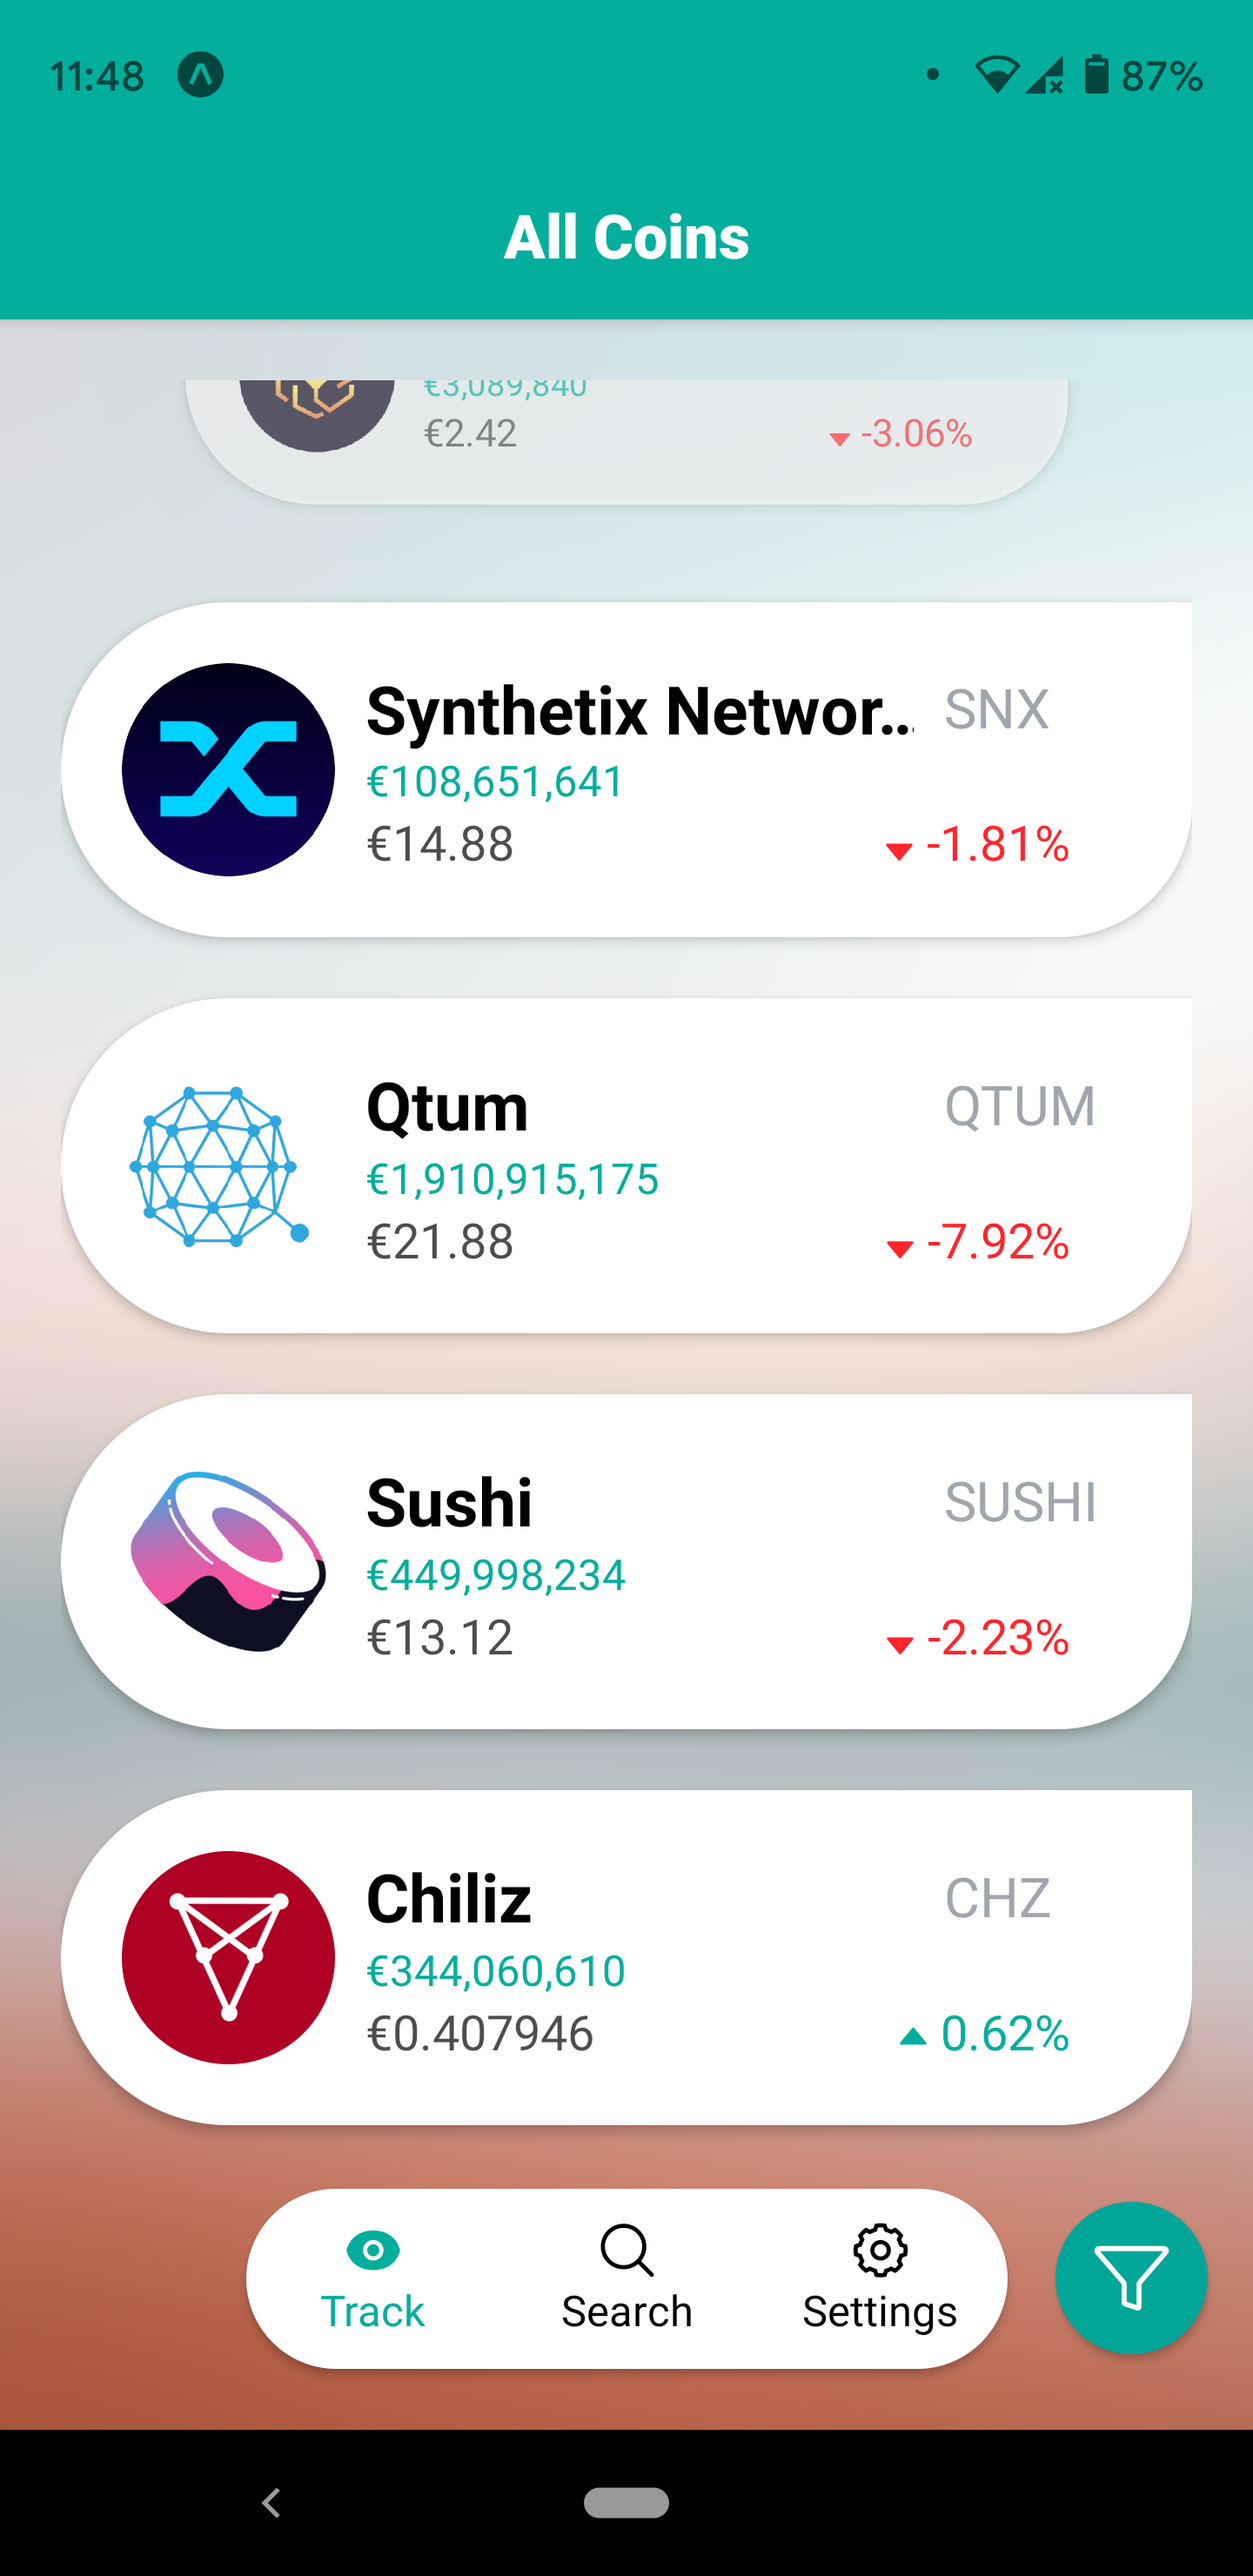
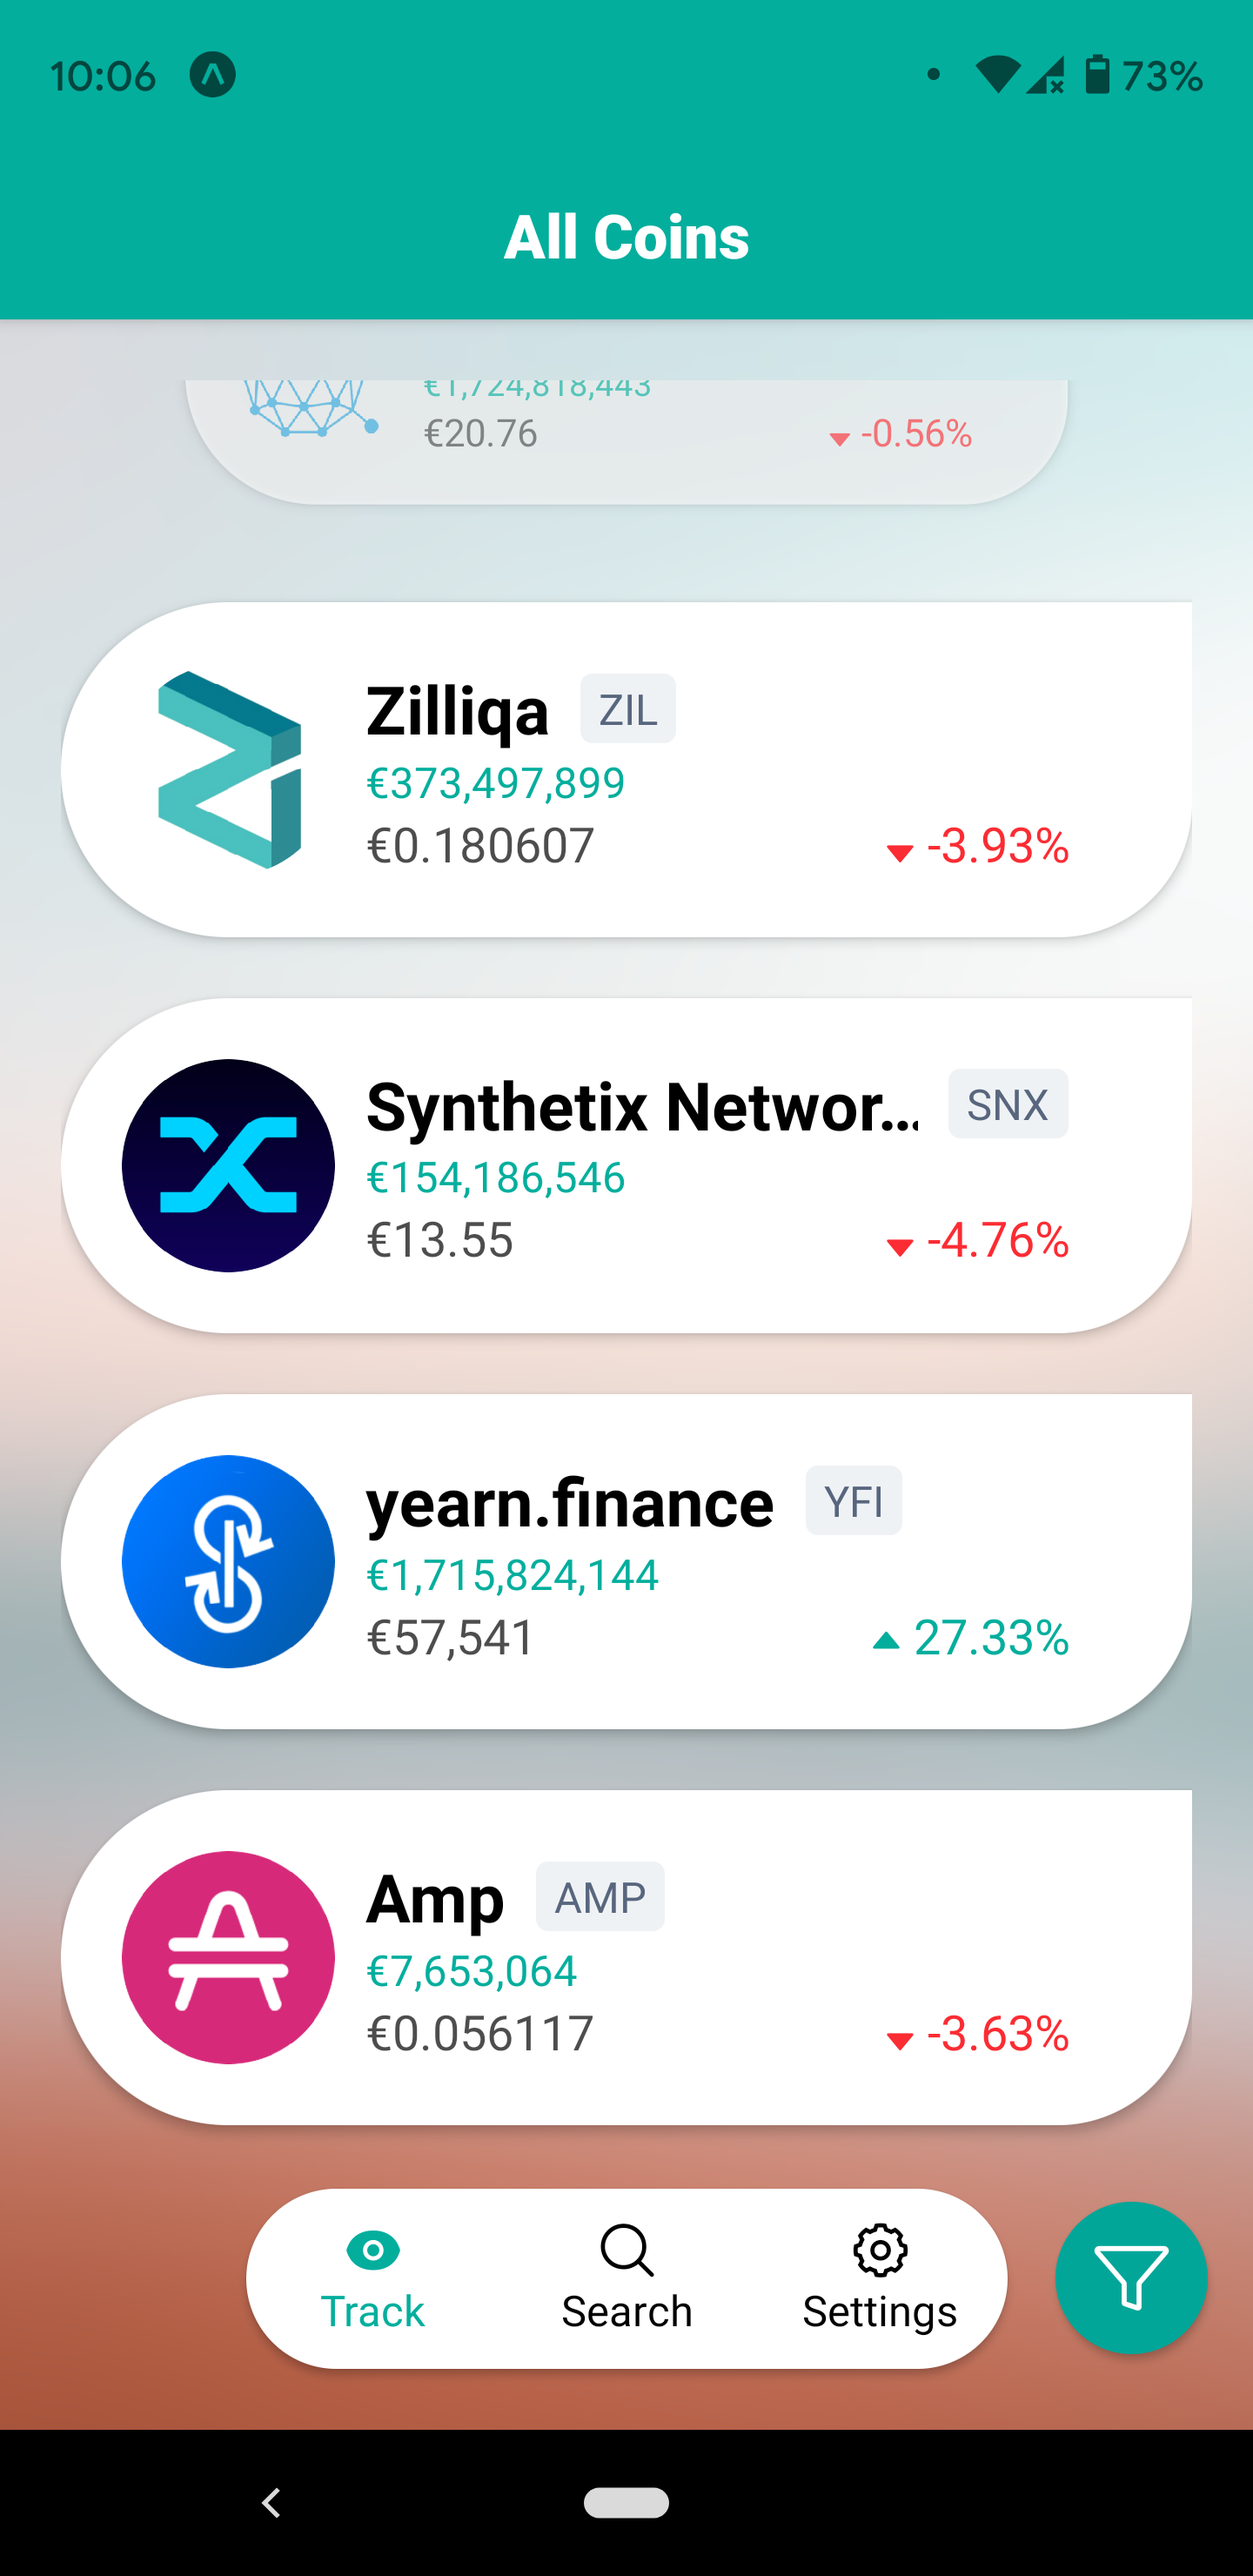
Create the Badge component

diff --git a/app/components/CoinList.js b/app/components/CoinList.js
@@ -12,6 +12,7 @@ import {
   RefreshControl,
 } from 'react-native';
 import { AntDesign } from '@expo/vector-icons';
+import Badge from './Badge';
 
 const AnimatedPressable = Animated.createAnimatedComponent(Pressable);
 const SPACING = 20;
@@ -47,7 +48,7 @@ const CoinList = ({ navigation }) => {
   }, [page]);
 
   const fetchCrypto = async () => {
-    const perPage = 25;
+    const perPage = 64;
     const urlParams = `vs_currency=eur&order=market_cap_desc&per_page=${perPage}&page=${page}&sparkline=false`;
     const baseUrl = `${COINGECKO_URL}/api/v3/coins/markets?${urlParams}`;
 
@@ -107,7 +108,7 @@ const CoinList = ({ navigation }) => {
       } else {
         return (
           <Text style={styles.drop}>
-            <AntDesign name='caretdown' color='#ff252c' size={10} />{' '}
+            <AntDesign name='caretdown' color='#fb2c33' size={10} />{' '}
             {percentageFormat(item.price_change_percentage_24h)}%
           </Text>
         );
@@ -135,7 +136,7 @@ const CoinList = ({ navigation }) => {
             >
               {item.name}
             </Text>
-            <Text style={styles.innerText}>{item.symbol}</Text>
+            <Badge value={item.symbol} />
           </View>
           <Text style={styles.itemVolume}>
             &euro;{numberFormat(item.total_volume)}
@@ -183,7 +184,7 @@ const CoinList = ({ navigation }) => {
       keyExtractor={(item) => item.id}
       ListFooterComponent={renderFooter}
       onEndReachedThreshold={0.5}
-      onEndReached={fetchMore}
+      // onEndReached={fetchMore}
       refreshControl={
         <RefreshControl refreshing={refreshing} onRefresh={onRefresh} />
       }
@@ -231,12 +232,12 @@ const styles = StyleSheet.create({
     flexDirection: 'row',
     alignItems: 'center',
     height: 'auto',
+    marginRight: SPACING * 2,
   },
   baseText: {
     fontSize: 22,
     fontWeight: '700',
     marginRight: 10,
-    width: SPACING * 9,
   },
   innerText: {
     fontSize: 18,
@@ -263,7 +264,7 @@ const styles = StyleSheet.create({
     fontSize: 16,
   },
   drop: {
-    color: '#ff252c',
+    color: '#fb2c33',
     fontSize: 16,
   },
 });

diff --git a/app/components/Search.js b/app/components/Search.js
@@ -9,10 +9,15 @@ import {
   SafeAreaView,
   ActivityIndicator,
   Image,
+  Dimensions,
   TextInput,
 } from 'react-native';
 import axios from 'axios';
+import Badge from './Badge';
 
+const { height, width } = Dimensions.get('window');
+
+const SPACING = 20;
 const AVATAR_SIZE = 40;
 
 const Search = () => {
@@ -69,7 +74,8 @@ const Search = () => {
       <View style={styles.listItem}>
         <Image source={{ uri: item.image }} style={styles.coverImage} />
         <View style={styles.metaInfo}>
-          <Text style={styles.title}>{`${item.name} ${item.symbol}`}</Text>
+          <Text style={styles.title}>{item.name}</Text>
+          <Badge value={item.symbol} />
         </View>
       </View>
     );
@@ -102,9 +108,10 @@ const styles = StyleSheet.create({
     fontWeight: '700',
   },
   listItem: {
+    width: width,
     marginTop: 10,
-    paddingVertical: 20,
-    paddingHorizontal: 20,
+    paddingVertical: SPACING,
+    paddingHorizontal: SPACING,
     backgroundColor: '#fff',
     flexDirection: 'row',
   },
@@ -114,11 +121,11 @@ const styles = StyleSheet.create({
     borderRadius: AVATAR_SIZE,
   },
   metaInfo: {
+    flexDirection: 'row',
     marginLeft: 10,
   },
   title: {
     fontSize: 18,
-    width: 200,
     padding: 10,
   },
   loader: {

diff --git a/app/components/Badge.js b/app/components/Badge.js
@@ -1,0 +1,33 @@
+import React from 'react';
+import { Text, StyleSheet, View } from 'react-native';
+
+const Badge = ({ value }) => {
+  return (
+    <View style={styles.container}>
+      <View style={styles.wrapper}>
+        <Text style={styles.badgeText}>{value}</Text>
+      </View>
+    </View>
+  );
+};
+
+export default Badge;
+
+const styles = StyleSheet.create({
+  container: {
+    flexDirection: 'row',
+    justifyContent: 'center',
+    alignSelf: 'center',
+    backgroundColor: '#eff2f5',
+    borderRadius: 4,
+  },
+  wrapper: {
+    paddingVertical: 2,
+    paddingHorizontal: 6,
+  },
+  badgeText: {
+    fontSize: 14,
+    color: '#58667e',
+    textTransform: 'uppercase',
+  },
+});
